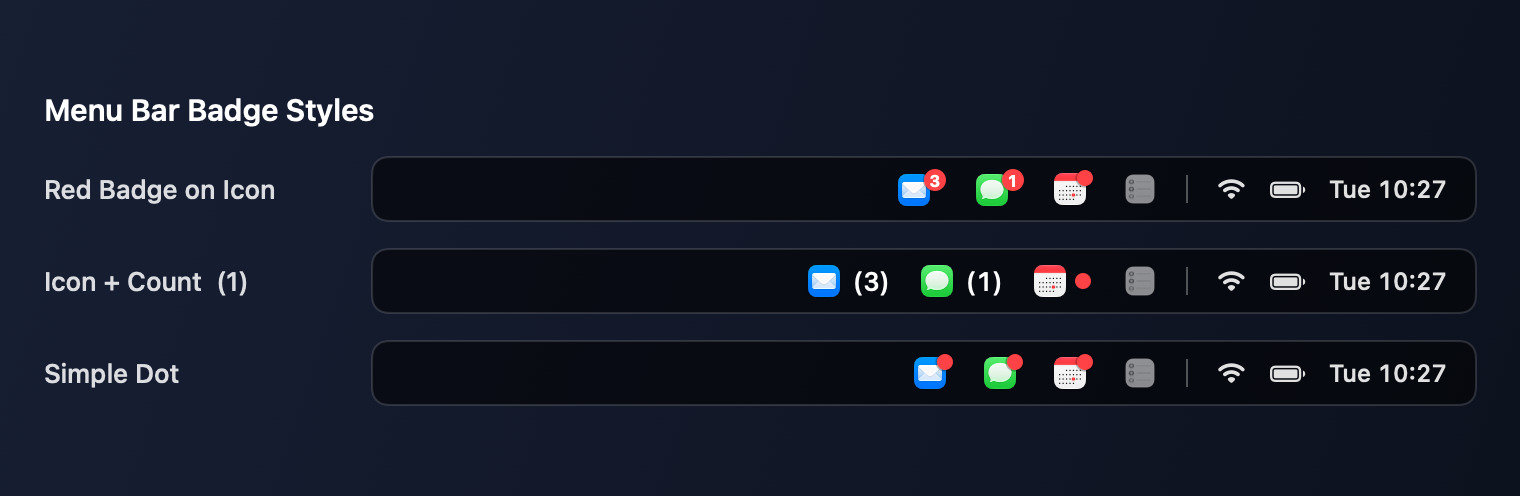
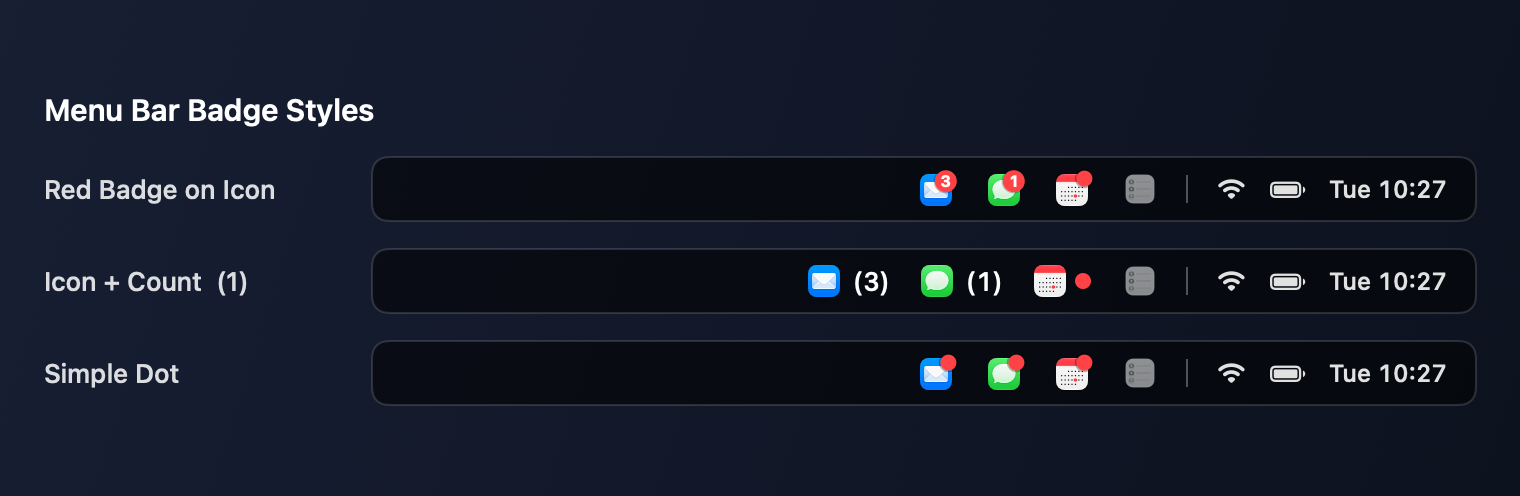
fix: tighten red badge placement and optically center badge digits (v0.2.1)

Changed region(s): [[0.5875, 0.3327, 0.7112, 0.4234], [0.5875, 0.7258, 0.7112, 0.7863]]

diff --git a/Sources/MenubarBadgesCore/BadgeIconRenderer.swift b/Sources/MenubarBadgesCore/BadgeIconRenderer.swift
@@ -1,5 +1,6 @@
 import AppKit
 import CoreImage
+import CoreText
 
 /// Renders crisp Retina-ready `NSImage`s for menu bar status items and previews.
 public enum BadgeIconRenderer {
@@ -158,21 +159,30 @@ public enum BadgeIconRenderer {
             return drawSimpleDotOverlay(on: icon, hasUnread: true, iconSize: iconSize, dotSize: dotSize)
         }
 
-        let fontScale: CGFloat = label.count >= 3 ? 0.64 : 0.74
+        let fontScale: CGFloat = label.count >= 3 ? 0.62 : 0.72
         let font = NSFont.systemFont(ofSize: max(6.0, badgeSize * fontScale), weight: .bold)
         let attrs: [NSAttributedString.Key: Any] = [
             .font: font,
             .foregroundColor: NSColor.white
         ]
-        let textSize = (label as NSString).size(withAttributes: attrs)
-        let badgeHeight = badgeSize
-        let horizontalPadding: CGFloat = label.count == 1 ? max(3.0, badgeSize * 0.30) : max(4.0, badgeSize * 0.38)
-        let badgeWidth = max(badgeHeight, ceil(textSize.width) + horizontalPadding)
+        let attributed = NSAttributedString(string: label, attributes: attrs)
+        let ctLine = CTLineCreateWithAttributedString(attributed)
+        let glyphBounds = CTLineGetBoundsWithOptions(ctLine, .useGlyphPathBounds)
 
-        let canvasHeight = min(maxMenuBarHeight, max(iconSize + 2.0, badgeHeight + 2.0))
+        let badgeHeight = badgeSize
+        let horizontalPadding: CGFloat = label.count == 1 ? max(3.5, badgeSize * 0.34) : max(5.0, badgeSize * 0.46)
+        let badgeWidth = max(badgeHeight, ceil(glyphBounds.width + horizontalPadding))
+
+        let haloInset: CGFloat = 0.6
+        let canvasHeight = min(maxMenuBarHeight, max(iconSize + 2.0, badgeHeight + haloInset * 2.0))
         let iconDrawSize = min(iconSize, canvasHeight - 1.0)
-        let overlapX = min(badgeWidth * 0.45, iconDrawSize * 0.42)
-        let canvasWidth = ceil(max(iconDrawSize + 2.0, iconDrawSize + badgeWidth - overlapX))
+
+        // Hug the top-right corner of the icon (accounting for macOS icon ~10% transparent margin).
+        // Single-digit circles overhang only slightly; wider pills expand cleanly to the right.
+        let circleOverhang = max(0.5, min(1.5, badgeHeight * 0.10))
+        let extraPillWidth = max(0.0, badgeWidth - badgeHeight)
+        let badgeRightX = iconDrawSize + circleOverhang + extraPillWidth * 0.72
+        let canvasWidth = ceil(max(iconDrawSize + haloInset, badgeRightX + haloInset))
 
         let image = NSImage(size: NSSize(width: canvasWidth, height: canvasHeight), flipped: false) { _ in
             NSGraphicsContext.current?.imageInterpolation = .high
@@ -182,24 +192,29 @@ public enum BadgeIconRenderer {
             icon.draw(in: iconRect, from: .zero, operation: .sourceOver, fraction: 1.0)
 
             let badgeRect = NSRect(
-                x: canvasWidth - badgeWidth,
-                y: canvasHeight - badgeHeight,
+                x: canvasWidth - haloInset - badgeWidth,
+                y: canvasHeight - haloInset - badgeHeight,
                 width: badgeWidth,
                 height: badgeHeight
             )
 
-            let haloRect = badgeRect.insetBy(dx: -0.6, dy: -0.6)
+            let haloRect = badgeRect.insetBy(dx: -haloInset, dy: -haloInset)
             NSColor.black.withAlphaComponent(0.25).setFill()
             NSBezierPath(roundedRect: haloRect, xRadius: haloRect.height / 2, yRadius: haloRect.height / 2).fill()
 
             NSColor.systemRed.setFill()
             NSBezierPath(roundedRect: badgeRect, xRadius: badgeHeight / 2, yRadius: badgeHeight / 2).fill()
 
-            let textOrigin = NSPoint(
-                x: badgeRect.midX - textSize.width / 2.0,
-                y: badgeRect.midY - textSize.height / 2.0 - 0.25
-            )
-            (label as NSString).draw(at: textOrigin, withAttributes: attrs)
+            // Center the exact optical ink bounding box of the glyphs inside the badge pill/circle.
+            if let cgContext = NSGraphicsContext.current?.cgContext {
+                cgContext.saveGState()
+                cgContext.textMatrix = .identity
+                let drawX = badgeRect.midX - glyphBounds.midX
+                let drawY = badgeRect.midY - glyphBounds.midY
+                cgContext.textPosition = CGPoint(x: drawX, y: drawY)
+                CTLineDraw(ctLine, cgContext)
+                cgContext.restoreGState()
+            }
             return true
         }
         image.isTemplate = false
@@ -218,25 +233,26 @@ public enum BadgeIconRenderer {
         }
 
         let dotDiameter = min(max(dotSize, 4.0), 12.0)
-        let canvasHeight = min(maxMenuBarHeight, max(iconSize + 2.0, dotDiameter + 2.0))
+        let haloInset: CGFloat = 0.8
+        let canvasHeight = min(maxMenuBarHeight, max(iconSize + 2.0, dotDiameter + haloInset * 2.0))
         let iconDrawSize = min(iconSize, canvasHeight - 1.0)
-        let canvasWidth = ceil(iconDrawSize + max(2.0, dotDiameter * 0.35))
+        let canvasWidth = ceil(iconDrawSize + max(0.5, dotDiameter * 0.14) + haloInset)
 
         let image = NSImage(size: NSSize(width: canvasWidth, height: canvasHeight), flipped: false) { _ in
             NSGraphicsContext.current?.imageInterpolation = .high
 
-            let iconY = max(0.0, (canvasHeight - iconDrawSize) / 2.0)
+            let iconY = max(0.0, (canvasHeight - iconDrawSize) / 2.0 - 0.5)
             let iconRect = NSRect(x: 0, y: iconY, width: iconDrawSize, height: iconDrawSize)
             icon.draw(in: iconRect, from: .zero, operation: .sourceOver, fraction: 1.0)
 
             let dotRect = NSRect(
-                x: canvasWidth - dotDiameter - 0.5,
-                y: canvasHeight - dotDiameter - 0.5,
+                x: canvasWidth - haloInset - dotDiameter,
+                y: canvasHeight - haloInset - dotDiameter,
                 width: dotDiameter,
                 height: dotDiameter
             )
 
-            let haloRect = dotRect.insetBy(dx: -0.8, dy: -0.8)
+            let haloRect = dotRect.insetBy(dx: -haloInset, dy: -haloInset)
             NSColor.black.withAlphaComponent(0.28).setFill()
             NSBezierPath(ovalIn: haloRect).fill()
 

diff --git a/Sources/MenubarBadges/Views/SettingsView.swift b/Sources/MenubarBadges/Views/SettingsView.swift
@@ -454,7 +454,7 @@ private struct GeneralSettingsDetailView: View {
 
     private var footerSection: some View {
         HStack {
-            let version = Bundle.main.infoDictionary?["CFBundleShortVersionString"] as? String ?? "0.2.0"
+            let version = Bundle.main.infoDictionary?["CFBundleShortVersionString"] as? String ?? "0.2.1"
             Text("Version \(version)")
                 .font(.caption)
                 .foregroundStyle(.secondary)

diff --git a/README.md b/README.md
@@ -52,10 +52,10 @@ Requires macOS 13+ and Swift 6 / Xcode.
 swift test
 
 # Build release MenubarBadges.app into ./dist/MenubarBadges.app
-./Scripts/build-app.sh 0.2.0
+./Scripts/build-app.sh 0.2.1
 
-# Build distributable DMG into ./dist/MenubarBadges-0.2.0.dmg
-./Scripts/build-dmg.sh 0.2.0
+# Build distributable DMG into ./dist/MenubarBadges-0.2.1.dmg
+./Scripts/build-dmg.sh 0.2.1
 
 # Run live macOS focus-safety verification
 ./dist/MenubarBadges.app/Contents/MacOS/MenubarBadges --verify-focus-safety
